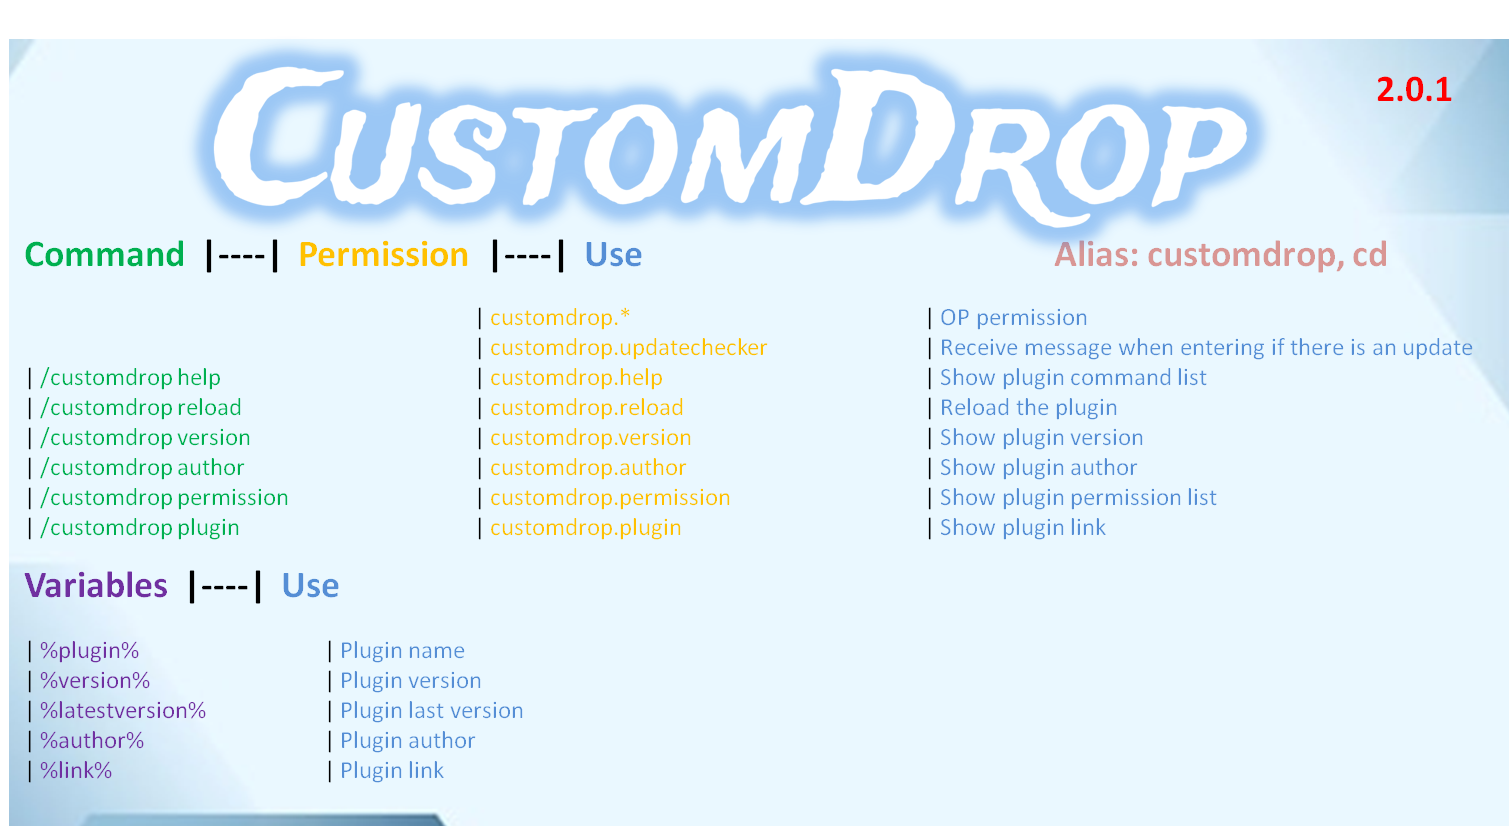
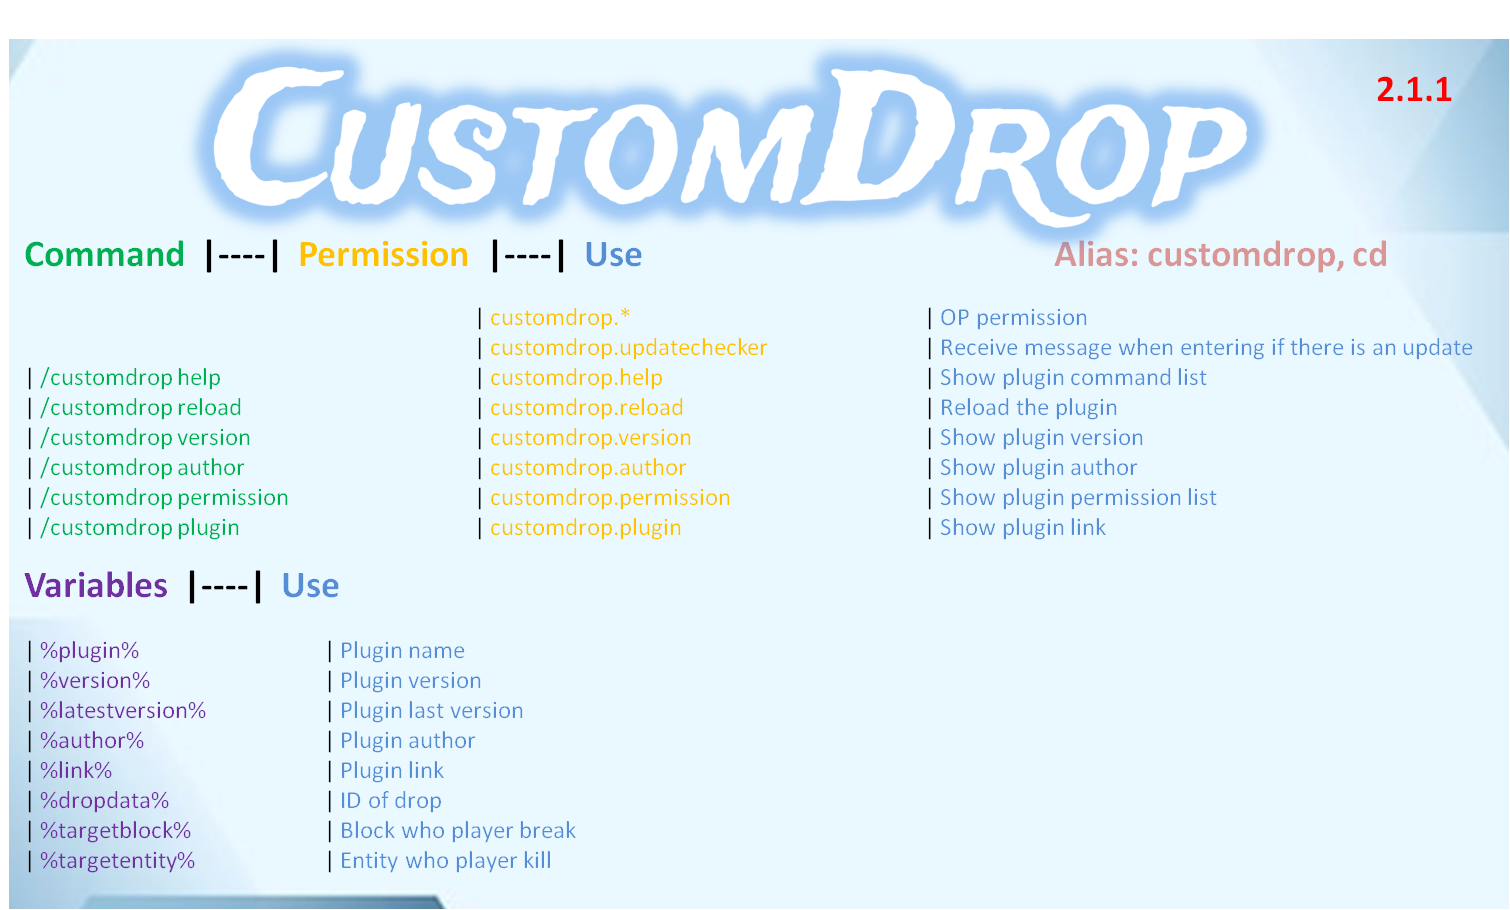
Minecraft-Plugins

diff --git a/Minecraft-Plugins/es/CustomDrop.html b/Minecraft-Plugins/es/CustomDrop.html
@@ -15,7 +15,7 @@
         <div class="plugin-details">
             <img class="image-resize" src="../images/icon.png" alt="CustomDrop">
             <h2>CustomDrop [1.8 - 1.21]</h2>
-            <h4>Versión: 2.0.1</h4>
+            <h4>Versión: 2.1.1</h4>
             <a href="https://www.spigotmc.org/resources/customdrop-1-13-1-21.118952/" class="download-link">Descargar</a>
             <button onclick="goBack()" class="back-button">Volver</button>
         </div>

diff --git a/Minecraft-Plugins/en/CustomDrop.html b/Minecraft-Plugins/en/CustomDrop.html
@@ -15,7 +15,7 @@
         <div class="plugin-details">
             <img class="image-resize" src="../images/icon.png" alt="CustomDrop">
             <h2>CustomDrop [1.8 - 1.21]</h2>
-            <h4>Version: 2.0.1</h4>
+            <h4>Version: 2.1.1</h4>
             <a href="https://www.spigotmc.org/resources/customdrop-1-13-1-21.118952/" class="download-link">Download</a>
             <button onclick="goBack()" class="back-button">Back</button>
         </div>

diff --git a/Minecraft-Plugins/index_es.html b/Minecraft-Plugins/index_es.html
@@ -141,7 +141,7 @@
                 </div>
                 <h2>CustomDrop [1.8 - 1.21]</h2>
                 <p>Permite que cualquier entidad al morir o bloque al romper dropee cualquier item.</p>
-                <p>Versión: 2.0.1</p>
+                <p>Versión: 2.1.1</p>
                 <a href="https://www.spigotmc.org/resources/customdrop-1-13-1-21.118952/" class="download-link">Descargar</a>
             </div>
 

diff --git a/Minecraft-Plugins/index_en.html b/Minecraft-Plugins/index_en.html
@@ -141,7 +141,7 @@
                 </div>
                 <h2>CustomDrop [1.8 - 1.21]</h2>
                 <p>Allows any entity upon death or block when broken to drop any item.</p>
-                <p>Version: 2.0.1</p>
+                <p>Version: 2.1.1</p>
                 <a href="https://www.spigotmc.org/resources/customdrop-1-13-1-21.118952/" class="download-link">Download</a>
             </div>
 
